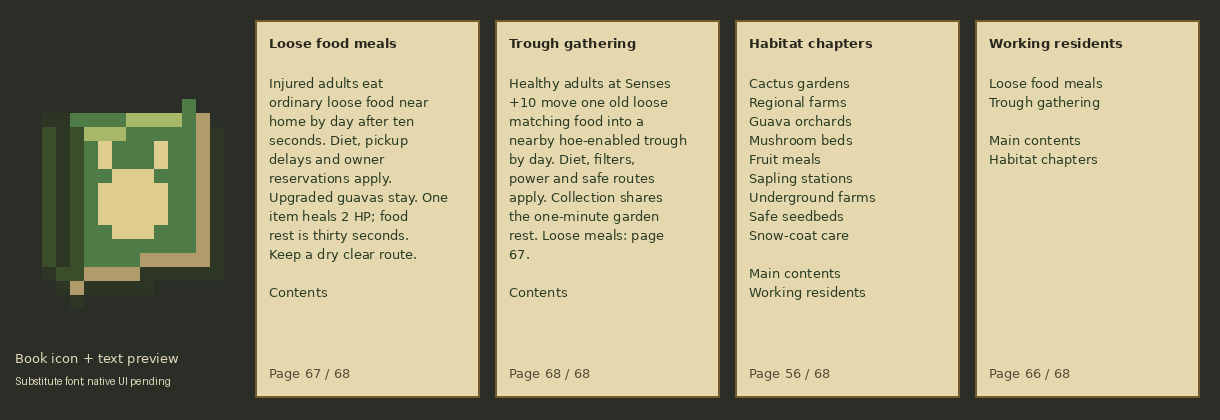
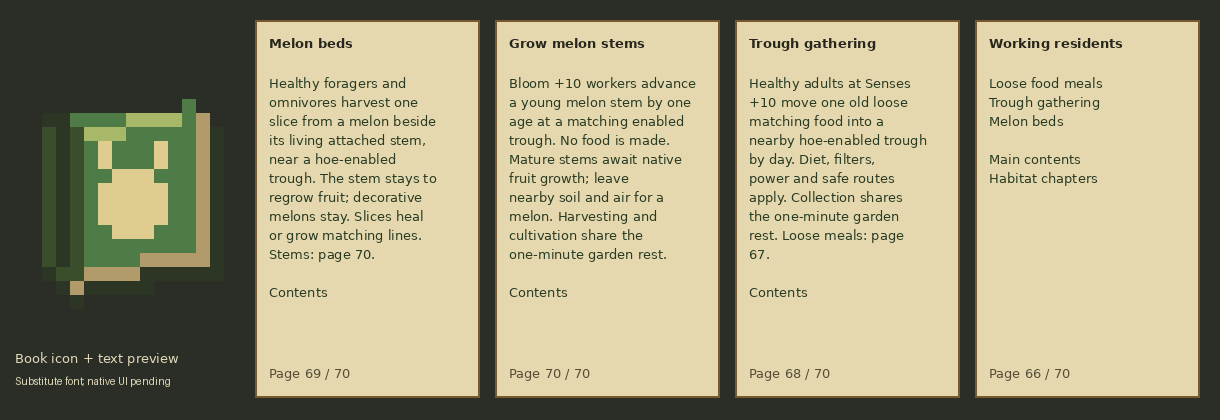
Add renewable melon harvesting and stem cultivation

diff --git a/tools/gametest/java/com/bunnidogs/mod/entity/MelonGardeningGameTest.java b/tools/gametest/java/com/bunnidogs/mod/entity/MelonGardeningGameTest.java
@@ -1,0 +1,116 @@
+package com.bunnidogs.mod.entity;
+
+import java.util.function.Consumer;
+import com.bunnidogs.mod.block.FeedingTroughBlock;
+import com.bunnidogs.mod.block.FeedingTroughBlockEntity;
+import com.bunnidogs.mod.genetics.Gardening;
+import com.bunnidogs.mod.genetics.Gene;
+import com.bunnidogs.mod.genetics.Genome;
+import com.bunnidogs.mod.genetics.Stats;
+import com.bunnidogs.mod.registry.ModBlocks;
+import com.bunnidogs.mod.registry.ModEntities;
+import net.minecraft.core.BlockPos;
+import net.minecraft.core.Direction;
+import net.minecraft.gametest.framework.GameTestHelper;
+import net.minecraft.util.ProblemReporter;
+import net.minecraft.world.InteractionHand;
+import net.minecraft.world.entity.item.ItemEntity;
+import net.minecraft.world.item.ItemStack;
+import net.minecraft.world.item.Items;
+import net.minecraft.world.level.GameType;
+import net.minecraft.world.level.block.Blocks;
+import net.minecraft.world.level.block.HorizontalDirectionalBlock;
+import net.minecraft.world.level.block.StemBlock;
+import net.minecraft.world.level.gamerules.GameRules;
+import net.minecraft.world.level.storage.TagValueInput;
+import net.minecraft.world.level.storage.TagValueOutput;
+import net.minecraft.world.phys.AABB;
+import net.minecraft.world.phys.Vec3;
+import net.neoforged.neoforge.common.NeoForge;
+import net.neoforged.neoforge.event.entity.living.LivingDestroyBlockEvent;
+
+/** Renewable melon fruit, decorative-block conservation and native stem reset/growth. */
+public final class MelonGardeningGameTest {
+    private MelonGardeningGameTest() {}
+    private static void ready(Bunnidog dog) {
+        var level = dog.level(); var output = TagValueOutput.createWithContext(ProblemReporter.DISCARDING,level.registryAccess());
+        dog.saveWithoutId(output); var saved = output.buildResult(); saved.remove("GardenWait");
+        dog.load(TagValueInput.create(ProblemReporter.DISCARDING,level.registryAccess(),saved));
+    }
+    private static void work(GameTestHelper h, Bunnidog dog, GardenGoal goal) {
+        goal.start(); dog.setPos(Vec3.atBottomCenterOf(h.absolutePos(new BlockPos(4,1,4))));
+        for (int i = 0; i < Gardening.WORK_TICKS; i++) goal.tick(); goal.stop();
+    }
+    public static void run(GameTestHelper h) {
+        var level = h.getLevel();
+        for (int x = 0; x < 8; x++) for (int z = 0; z < 8; z++) {
+            h.setBlock(x,0,z,Blocks.STONE);
+            for (int y = 1; y <= 5; y++) h.setBlock(x,y,z,Blocks.AIR);
+        }
+        h.setBlock(1,1,1,ModBlocks.NEST.get());
+        h.setBlock(new BlockPos(3,1,4),ModBlocks.FEEDING_TROUGH.get().defaultBlockState().setValue(FeedingTroughBlock.TENDING,true));
+        var fruit = h.absolutePos(new BlockPos(5,1,4)); var stem = fruit.north();
+        level.setBlock(stem.below(),Blocks.FARMLAND.defaultBlockState(),3);
+        level.setBlock(fruit,Blocks.MELON.defaultBlockState(),3);
+        var attached = Blocks.ATTACHED_MELON_STEM.defaultBlockState().setValue(HorizontalDirectionalBlock.FACING,Direction.SOUTH);
+        var trough = (FeedingTroughBlockEntity)level.getBlockEntity(h.absolutePos(new BlockPos(3,1,4)));
+        var dog = h.spawnWithNoFreeWill(ModEntities.BUNNIDOG.get(),3.5F,1,3.5F);
+        int forager = Gene.DIET.alleleNamed("forager").id();
+        var genome = Genome.DEFAULT.with(Gene.DIET,0,forager).with(Gene.DIET,1,forager);
+        dog.setAge(0); dog.setGenome(genome); dog.setStats(Stats.ZERO); dog.setHealth(dog.getMaxHealth());
+        h.runAfterDelay(2,() -> {
+            var clock = level.dimensionType().defaultClock().orElseThrow(); long time = level.clockManager().getTotalTicks(clock);
+            boolean griefing = level.getGameRules().get(GameRules.MOB_GRIEFING);
+            try {
+                level.clockManager().setTotalTicks(clock,1000); level.getGameRules().set(GameRules.MOB_GRIEFING,true,level.getServer());
+                h.assertTrue(dog.moveHomeTo(level,h.absolutePos(new BlockPos(1,1,1))) == NestHome.MoveResult.MOVED,"Melon work needs a real claimed Nest");
+                h.assertTrue(!new GardenGoal(dog).canUse(),"Decorative melons without an attached stem must remain intact");
+                level.setBlock(stem,attached.setValue(HorizontalDirectionalBlock.FACING,Direction.NORTH),3);
+                h.assertTrue(!new GardenGoal(dog).canUse(),"An attached stem facing away must not authorize this melon");
+                level.setBlock(stem,attached,3);
+                dog.setGenome(Genome.DEFAULT); h.assertTrue(!new GardenGoal(dog).canUse(),"Plain diets cannot harvest melon slices"); dog.setGenome(genome);
+                trough.setFilter(new ItemStack(Items.POTATO)); h.assertTrue(!new GardenGoal(dog).canUse(),"Melon produce obeys exact trough filters");
+                trough.clearFilter(); trough.setFilter(new ItemStack(Items.MELON_SLICE));
+                var interrupted = new GardenGoal(dog); h.assertTrue(interrupted.canUse(),"A living linked melon must form a native garden job");
+                Consumer<LivingDestroyBlockEvent> loseStem = event -> {
+                    if (event.getEntity() == dog && event.getPos().equals(fruit))
+                        level.setBlock(stem,Blocks.MELON_STEM.defaultBlockState().setValue(StemBlock.AGE,7),3);
+                };
+                NeoForge.EVENT_BUS.addListener(loseStem);
+                try { work(h,dog,interrupted); } finally { NeoForge.EVENT_BUS.unregister(loseStem); }
+                h.assertTrue(level.getBlockState(fruit).is(Blocks.MELON) && trough.food().isEmpty() && dog.gardeningWait() == 0,
+                        "Losing the linked stem in a protection callback must cancel without food or rest");
+                level.setBlock(stem,attached,3);
+                var harvest = new GardenGoal(dog); h.assertTrue(harvest.canUse(),"A restored stem must permit a new job"); work(h,dog,harvest);
+                h.assertTrue(level.getBlockState(fruit).isAir() && level.getBlockState(stem).is(Blocks.MELON_STEM)
+                        && level.getBlockState(stem).getValue(StemBlock.AGE) == 7 && trough.food().is(Items.MELON_SLICE)
+                        && trough.food().getCount() == 1 && dog.gardeningWait() == Gardening.REST_TICKS,
+                        "One fruit must yield one slice and native updates must restore its mature growing stem");
+                h.assertTrue(level.getEntitiesOfClass(ItemEntity.class,new AABB(fruit).inflate(3),item -> item.getItem().is(Items.MELON_SLICE)).isEmpty(),
+                        "Trough harvesting must not duplicate loose slices");
+                ready(dog); trough.takeAll();
+                h.assertTrue(!new GardenGoal(dog).canUse(),"A mature bare stem must await native fruit growth rather than be harvested");
+                level.setBlock(stem,Blocks.MELON_STEM.defaultBlockState().setValue(StemBlock.AGE,2),3);
+                dog.setStats(Stats.of(0,0,0,0,9)); h.assertTrue(!new GardenGoal(dog).canUse(),"Bloom +9 must leave young stems alone");
+                dog.setStats(Stats.of(0,0,0,0,10));
+                var grow = new GardenGoal(dog); h.assertTrue(grow.canUse(),"Bloom +10 may tend a matching young melon stem"); work(h,dog,grow);
+                h.assertTrue(level.getBlockState(stem).getValue(StemBlock.AGE) == 3 && level.getBlockState(fruit).isAir()
+                        && trough.food().isEmpty() && dog.gardeningWait() == Gardening.REST_TICKS,
+                        "Cultivation must advance exactly one stage, produce no food and share gardening rest");
+                ready(dog); level.setBlock(stem,Blocks.MELON_STEM.defaultBlockState().setValue(StemBlock.AGE,7),3);
+                h.assertTrue(!new GardenGoal(dog).canUse(),"Bloom must not wrap mature stems or force another fruit");
+                var player = h.makeMockPlayer(GameType.SURVIVAL);
+                var slices = new ItemStack(Items.MELON_SLICE,2); player.setItemInHand(InteractionHand.MAIN_HAND,slices);
+                dog.setHealth(dog.getMaxHealth()-4); dog.setGenome(Genome.DEFAULT); float hurt = dog.getHealth();
+                player.interactOn(dog,InteractionHand.MAIN_HAND,Vec3.ZERO);
+                h.assertTrue(dog.getHealth() == hurt && slices.getCount() == 2,"Plain lines must refuse hand-fed melon");
+                dog.setGenome(genome); player.interactOn(dog,InteractionHand.MAIN_HAND,Vec3.ZERO);
+                h.assertTrue(dog.getHealth() == hurt+2 && slices.getCount() == 1 && !Bunnidog.isBunnidogFood(slices),
+                        "Forager slices heal for one real item while remaining outside breeding food");
+                dog.setAge(-2400); player.interactOn(dog,InteractionHand.MAIN_HAND,Vec3.ZERO);
+                h.assertTrue(dog.getAge() > -2400 && slices.isEmpty(),"A compatible pup must grow using the final real slice");
+                h.succeed();
+            } finally { level.clockManager().setTotalTicks(clock,time); level.getGameRules().set(GameRules.MOB_GRIEFING,griefing,level.getServer()); }
+        });
+    }
+}

diff --git a/src/main/java/com/bunnidogs/mod/entity/GardenGoal.java b/src/main/java/com/bunnidogs/mod/entity/GardenGoal.java
@@ -23,7 +23,9 @@ import net.minecraft.world.level.block.Blocks;
 import net.minecraft.world.level.block.CaveVines;
 import net.minecraft.world.level.block.CropBlock;
 import net.minecraft.world.level.block.ComposterBlock;
+import net.minecraft.world.level.block.HorizontalDirectionalBlock;
 import net.minecraft.world.level.block.NetherWartBlock;
+import net.minecraft.world.level.block.StemBlock;
 import net.minecraft.world.level.block.SweetBerryBushBlock;
 import net.minecraft.world.level.block.state.BlockState;
 import net.minecraft.world.level.pathfinder.Path;
@@ -71,6 +73,18 @@ final class GardenGoal extends Goal {
     private static boolean smallMushroom(BlockState state) {
         return state.is(Blocks.RED_MUSHROOM) || state.is(Blocks.BROWN_MUSHROOM);
     }
+    /** A living attached stem distinguishes renewable fruit from decorative melon blocks. */
+    private boolean linkedMelon(ServerLevel level, BlockPos fruit) {
+        for (Direction direction : Direction.Plane.HORIZONTAL) {
+            BlockPos pos = fruit.relative(direction);
+            if (!level.hasChunkAt(pos) || !this.dog.foodWithinHome(pos)) continue;
+            var stem = level.getBlockState(pos);
+            if (stem.is(Blocks.ATTACHED_MELON_STEM)
+                    && stem.getValue(HorizontalDirectionalBlock.FACING) == direction.getOpposite()
+                    && stem.canSurvive(level,pos)) return true;
+        }
+        return false;
+    }
     /** Keep another living mushroom of this exact color in the loaded home patch. */
     private boolean thinnableMushroom(ServerLevel level, BlockPos pos) {
         var state = level.getBlockState(pos);
@@ -84,6 +98,10 @@ final class GardenGoal extends Goal {
         return false;
     }
     private Work work(ServerLevel level, BlockPos pos, BlockState state, boolean cultivate, ItemStack stock) {
+        if (state.is(Blocks.MELON)) return linkedMelon(level,pos)
+                ? new Work(new ItemStack(Items.MELON_SLICE),Blocks.AIR.defaultBlockState(),Task.HARVEST) : null;
+        if (state.is(Blocks.MELON_STEM)) return cultivate && state.getValue(StemBlock.AGE) < StemBlock.MAX_AGE && state.canSurvive(level,pos)
+                ? new Work(new ItemStack(Items.MELON_SLICE),state.cycle(StemBlock.AGE),Task.CULTIVATE) : null;
         if (state.is(Blocks.CACTUS)) return prunableCactus(level,pos)
                 ? new Work(new ItemStack(Items.CACTUS),Blocks.AIR.defaultBlockState(),Task.HARVEST) : null;
         if (smallMushroom(state)) return thinnableMushroom(level,pos)
@@ -153,6 +171,7 @@ final class GardenGoal extends Goal {
                 && this.dog.canEat(this.produce)
                 && (this.task == Task.HARVEST || Gardening.cultivates(this.dog.stats()))
                 && this.dog.level().getBlockState(this.crop).equals(this.mature)
+                && (!this.mature.is(Blocks.MELON) || linkedMelon((ServerLevel)this.dog.level(),this.crop))
                 && (!this.mature.is(Blocks.CACTUS) || prunableCactus((ServerLevel)this.dog.level(),this.crop))
                 && (!smallMushroom(this.mature) || thinnableMushroom((ServerLevel)this.dog.level(),this.crop))
                 && stock != null && (this.task == Task.COMPOST

diff --git a/art/gen_guide.py b/art/gen_guide.py
@@ -68,8 +68,10 @@ PAGES = {
     65: ('Snow-coat care', 'Brush healthy adult snow coats at Bloom +10 in a climate cold enough for snow to gather one snowball. Hidden snow gives none. Whiskers and Starlit Dust can combine. Hand and dispenser brushes share ten-minute rest. Shears gather wool separately.'),
     67: ('Loose food meals', 'Injured adults eat ordinary loose food near home by day after ten seconds. Diet, pickup delays and owner reservations apply. Upgraded guavas stay. One item heals 2 HP; food rest is thirty seconds. Keep a dry clear route.'),
     68: ('Trough gathering', 'Healthy adults at Senses +10 move one old loose matching food into a nearby hoe-enabled trough by day. Diet, filters, power and safe routes apply. Collection shares the one-minute garden rest. Loose meals: page 67.'),
+    69: ('Melon beds', 'Healthy foragers and omnivores harvest one slice from a melon beside its living attached stem, near a hoe-enabled trough. The stem stays to regrow fruit; decorative melons stay. Slices heal or grow matching lines. Stems: page 70.'),
+    70: ('Grow melon stems', 'Bloom +10 workers advance a young melon stem by one age at a matching enabled trough. No food is made. Mature stems await native fruit growth; leave nearby soil and air for a melon. Harvesting and cultivation share the one-minute garden rest.'),
 }
-PAGE_COUNT = 68
+PAGE_COUNT = 70
 MAIN_INDEX = {2:'Warrens & scouts',4:'Breeding & seeds',8:'Homes & food',11:'Care & traits',15:'Lab & splicing',
               17:'Registry & shows',19:'Material drops',20:'Apex of the Line'}
 MORE_INDEX = {24:'Guava juice',25:'Gardens & stores',27:'Boss forecast',28:'Living harvests',29:'Terrain & fishing',
@@ -77,7 +79,7 @@ MORE_INDEX = {24:'Guava juice',25:'Gardens & stores',27:'Boss forecast',28:'Livi
 NEW_INDEX = {41:'Nursery & compost',44:'Treat a litter',45:'Nest guards',46:'Warren maps',47:'Mineral scouts',49:'Pause trough work',51:'Find a tagged animal',52:'Bell roll call',53:'Recovery rest',54:'Plan a litter'}
 
 HABITAT_INDEX = {57:'Cactus gardens',58:'Regional farms',59:'Guava orchards',60:'Mushroom beds',61:'Fruit meals',62:'Sapling stations',63:'Underground farms',64:'Safe seedbeds',65:'Snow-coat care'}
-WORK_INDEX = {67:'Loose food meals',68:'Trough gathering'}
+WORK_INDEX = {67:'Loose food meals',68:'Trough gathering',69:'Melon beds'}
 
 def pantry_guide_pool():
     return {'rolls':1,'conditions':[{'condition':'minecraft:random_chance','chance':.35}],
@@ -124,7 +126,7 @@ def main():
         bold = ImageFont.truetype('DejaVuSans-Bold.ttf',13)
     except OSError:
         font = bold = ImageFont.load_default()
-    for x,page in [(255,67),(495,68),(735,56),(975,66)]:
+    for x,page in [(255,69),(495,70),(735,68),(975,66)]:
         d.rectangle((x,20,x+224,397),fill=(230,216,174),outline=(117,90,48),width=2)
         title = 'Bunnidogs Guide' if page == 1 else 'More chapters' if page == 40 else 'New chapters' if page == 50 else 'Habitat chapters' if page == 56 else 'Working residents' if page == 66 else PAGES[page][0]
         d.text((x+14,35),title,font=bold,fill=(40,39,30))

diff --git a/tools/gametest/java/com/bunnidogs/mod/entity/GuavaGameTest.java b/tools/gametest/java/com/bunnidogs/mod/entity/GuavaGameTest.java
@@ -55,7 +55,7 @@ public final class GuavaGameTest extends GameTestInstance {
     @SubscribeEvent
     public static void registerTests(RegisterGameTestsEvent event) {
         var environment = event.registerEnvironment(id("guava_integration"), new TestEnvironmentDefinition.AllOf());
-        for (String name : new String[]{"boats", "signs", "transport", "rehoming", "wayfinding", "sampling", "adaptations", "fleece", "splicing", "registry", "table_planning", "table_automation", "show", "grooming", "cold_care", "settlement", "apex", "fixtures", "regional_farms", "orchard", "sapling_station", "gardening", "cactus_gardening", "mushroom_gardening", "fruit_foraging", "loose_food", "food_gathering", "pantry", "fishing", "refuge", "guarding", "scouting", "resident_finder", "storm_shelter", "recovery_rest", "trough_automation", "bell_calls", "trough_filters", "care_dispensers", "basket", "cultivation", "nest_markers", "night_meals", "nursery", "seed_recovery", "cradle_storage", "cradle_hatching", "cradle_spawn_refusal", "crop_harvest", "composting", "nursery_treatment"}) {
+        for (String name : new String[]{"boats", "signs", "transport", "rehoming", "wayfinding", "sampling", "adaptations", "fleece", "splicing", "registry", "table_planning", "table_automation", "show", "grooming", "cold_care", "settlement", "apex", "fixtures", "regional_farms", "orchard", "sapling_station", "gardening", "cactus_gardening", "mushroom_gardening", "melon_gardening", "fruit_foraging", "loose_food", "food_gathering", "pantry", "fishing", "refuge", "guarding", "scouting", "resident_finder", "storm_shelter", "recovery_rest", "trough_automation", "bell_calls", "trough_filters", "care_dispensers", "basket", "cultivation", "nest_markers", "night_meals", "nursery", "seed_recovery", "cradle_storage", "cradle_hatching", "cradle_spawn_refusal", "crop_harvest", "composting", "nursery_treatment"}) {
             event.registerTest(id(name), new GuavaGameTest(name, new TestData<>(environment, id("empty"), 100, 0, true)));
         }
     }
@@ -83,6 +83,7 @@ public final class GuavaGameTest extends GameTestInstance {
             case "gardening" -> { GardeningGameTest.run(h); return; }
             case "cactus_gardening" -> { CactusGardeningGameTest.run(h); return; }
             case "mushroom_gardening" -> { MushroomGardeningGameTest.run(h); return; }
+            case "melon_gardening" -> { MelonGardeningGameTest.run(h); return; }
             case "fruit_foraging" -> { FruitForagingGameTest.run(h); return; }
             case "loose_food" -> { LooseFoodGameTest.run(h); return; }
             case "food_gathering" -> { FoodGatheringGameTest.run(h); return; }

diff --git a/src/main/java/com/bunnidogs/mod/item/FieldGuideItem.java b/src/main/java/com/bunnidogs/mod/item/FieldGuideItem.java
@@ -12,7 +12,7 @@ import net.minecraft.world.item.component.WrittenBookContent;
 
 /** Native book UI/packets, translated pages and local page links; no custom screen or payload. */
 public final class FieldGuideItem extends WrittenBookItem {
-    public static final int PAGE_COUNT = 68;
+    public static final int PAGE_COUNT = 70;
     private static final int MORE_CONTENTS = 40;
     private static final int NEW_CONTENTS = 50;
     private static final int HABITAT_CONTENTS = 56;
@@ -27,7 +27,7 @@ public final class FieldGuideItem extends WrittenBookItem {
                 .append("\n").append(link("guide.bunnidogs.habitat_contents",HABITAT_CONTENTS))));
         for (int page = 2; page <= PAGE_COUNT; page++) {
             if (page == WORK_CONTENTS) {
-                pages.add(Filterable.passThrough(contents("guide.bunnidogs.work_contents",new int[]{67,68},
+                pages.add(Filterable.passThrough(contents("guide.bunnidogs.work_contents",new int[]{67,68,69},
                         "guide.bunnidogs.main_contents",1).append("\n").append(link("guide.bunnidogs.habitat_contents",HABITAT_CONTENTS))));
                 continue;
             }

diff --git a/src/main/java/com/bunnidogs/mod/genetics/Diet.java b/src/main/java/com/bunnidogs/mod/genetics/Diet.java
@@ -6,7 +6,7 @@ import java.util.List;
 public enum Diet {
     PLAIN("plain", "Guavas only.", List.of()),
     GRAZER("grazer", "Hay, wheat and grass.", List.of("grazer")),
-    FORAGER("forager", "Carrots, potatoes, beetroot, apples and berries.", List.of("forager")),
+    FORAGER("forager", "Carrots, potatoes, beetroot, apples, melon slices and berries.", List.of("forager")),
     HUNTER("hunter", "Raw meat; wounded adults hunt small prey near their Nest.", List.of("hunter")),
     OMNIVORE("omnivore", "Grazer, forager and hunter foods; can graze and hunt.", List.of("grazer", "forager", "hunter")),
     FISHER("fisher", "Raw fish; wounded adults hunt reachable fish near their Nest.", List.of("fisher")),

diff --git a/docs/SETTLEMENT_LIFE.md b/docs/SETTLEMENT_LIFE.md
@@ -711,3 +711,42 @@ and full-destination rollback, callback-added power, one-item transfer/signals,
 shared garden recovery and actual stock-notification removal conserving food.
 Calipers names the Senses gathering bonus. Guide/navigation preview inspected;
 client worker behavior remains gameplay review.
+
+## L25: renewable melon beds
+
+Forager and omnivore Diet tags now include ordinary melon slices for healing,
+pup growth, trough meals and loose-food handling; slices remain outside guava
+breeding food. Healthy residents can harvest a vanilla melon near a hoe-enabled
+trough only if a living attached melon stem points to that fruit. Both stem
+and fruit must be loaded and inside the claimed home bounds. Decorative melons,
+wrong-facing/detached stems and unsupported stems do not authorize a job.
+
+One protected three-second job removes the fruit into exactly one slice of
+stock, preserving the stem, soil and surrounding blocks. Native neighbor
+updates turn the attached stem back into age-seven melon stem, so native growth
+supplies the next fruit. This deliberately uses the existing modest one-item
+resident work yield rather than vanilla player-break slice rolls. There is no
+extra loose drop. Existing Diet, filter/components, capacity, redstone, daytime,
+health, griefing, native safe paths, sight/reach and one-minute GardenWait apply.
+Linkage rechecks after protection callbacks as well as during the visit.
+
+## L26: cultivate young melon stems
+
+Bloom +10 workers can advance an existing supported melon stem from ages 0–6
+by exactly one age at a compatible enabled trough. The future slice must suit
+the Diet, filter and available stock space. No item is produced, consumed or
+carried; the job shares ordinary garden recovery. Ripe harvesting remains the
+first work priority. Age-seven stems and attached stems cannot be harvested
+as plants, wrapped to zero or forced to place fruit. Native light, soil, space
+and random growth rules govern future fruit. Players plant seeds normally.
+
+L25/L26 evidence (2026-10-19): Java 25 build/all 53 native cases pass. The new
+native melon case claims a real Nest and complete safe path; it checks absent/
+wrong-facing linked stems, Diet/filter refusals, protection-callback stem loss
+without food/rest, exact one-slice harvest, real native age-seven stem reset,
+no duplicated loose produce, Bloom +9/+10, one-stage/no-food cultivation,
+shared rest and mature-stem refusal. Native hand feeding checks plain refusal,
+forager adult healing and pup growth with exactly one real slice per success,
+while slices remain outside breeding food. The 70-page guide preview is
+inspected; natural melon cycles and client worker behavior need gameplay review.
+No animal save, network, allele or settlement-plan format changes.

diff --git a/docs/API_NOTES.md b/docs/API_NOTES.md
@@ -28,6 +28,7 @@ Status words: **COMPILED** = the user's compile accepted it (names and types are
 ### Lookup table (need -> what works in this project -> status -> exact place)
 | Need | What works | Status | Where it was verified |
 |---|---|---|---|
+| Melon beds L25/L26 | AttachedStemBlock uses HorizontalDirectionalBlock.FACING; native neighbor updates restore MELON_STEM AGE 7 when its fruit is removed. Require an exact living attached melon stem pointing to the fruit, rechecked after protection callbacks. Advance StemBlock.AGE only below MAX_AGE; do not call native bone meal or harvest a mature stem. | Resolved 26.2 source + actual native linked/decorative/protection/reset/cultivation/hand-feeding case | GardenGoal, MelonGardeningGameTest |
 | Loose food D7/L24 | ItemEntity.getAge/hasPickUpDelay/getTarget gate old unreserved food; saved Age is a short. Mob pickups use EventHooks.canEntityGrief and EntityMobGriefingEvent; ItemEntityPickupEvent is player-only. ItemStackResourceHandler can journal an entity stack with trough.automation() in one Transaction. Commit before empty-entity discard; thrown-item criteria receive the committed unit snapshot. | Actual Java 25 build/native rollback, callback reservation/power and stock-notification removal checks | LooseFood, LooseFoodGoal, native loose_food/food_gathering cases |
 | Cold care C10 / native shearing | `Biome.coldEnoughToSnow(BlockPos,int seaLevel)` uses native temperature/altitude. GameTestHelper.setBiome(Biomes.SNOWY_PLAINS/PLAINS) changes real fixture biomes. Existing Bunnidog IShearable already integrates with ShearsDispenseItemBehavior, including fleece rest, tool wear and native fallback; do not register a duplicate shears behavior. | Resolved 26.2 source + native climate/brush/shears-pulse case | `entity/BunnidogCare.java`, `ColdCareGameTest.java` |
 | Plant soil tags in 26.2 (O5/N8) | `DIRT` contains only dirt/coarse dirt/rooted dirt. Grass/podzol/mycelium moved to `GRASS_BLOCKS`; native `VegetationBlock` uses `SUPPORTS_VEGETATION` and first honors `soil.canSustainPlant(level,below,Direction.UP,plant)` TriState overrides. Use `DIRT` plus `GRASS_BLOCKS` for the legacy litter-crop fallback. | Resolved 26.2 native source/data; actual sapling/seed-soil recovery checks | `block/GuavaSaplingBlock.java`, `block/SeedCropBlock.java`, native station/recovery cases |

diff --git a/START_HERE.md b/START_HERE.md
@@ -22,6 +22,15 @@ checkpoints/compaction and reserve only the capacity needed to deliver safely.
 
 ## Latest gameplay work — 2026-10-19
 
+- **L25/L26, renewable melon beds:** foragers/omnivores harvest one slice
+  only beside a living attached melon stem, leaving decorative melons intact.
+  Native neighbor updates restore the mature stem. Bloom +10 advances young
+  stems by one age without food or forced fruit. Diet, exact filters, native
+  protection rechecks and shared work rest apply. Matching hand-fed slices
+  heal adults/grow pups without breeding. The guide reaches 70 pages with
+  forty chapter links. Java 25 build/all 53 native cases pass; new chapter/
+  Working-index preview inspected. See `docs/SETTLEMENT_LIFE.md` L25–L26.
+
 - **D7/L24/P6, loose-food use:** injured adults take one old ordinary loose
   food as a normal daytime meal. Healthy Senses +10 adults collect it beside
   an enabled trough with shared garden rest. Ten-second grace, native pickup
@@ -338,9 +347,17 @@ Add `checkBunnidogModel` for mesh/renderer/animation changes. GitHub Actions run
 Avoid the large GenomeCheck suite unless substantial pure genetics/layout work
 requires it; do not repeat passing checks without a relevant change or concern.
 
-The Java 25 build and all **fifty-two** native scenarios pass (fifty-one mod
+The Java 25 build and all **fifty-three** native scenarios pass (fifty-two mod
 cases plus native sanity). Latest coverage:
 
+- **L25/L26:** living/wrong-facing/decorative melon cases, Diet/filter refusals,
+  protection-callback stem loss, exact slice/native stem reset, no loose copy,
+  Bloom thresholds, one-stage/no-food growth, mature refusal and hand feeding.
+- **D7/L24:** grace/pickup reservations, upgraded-food refusal, safe paths,
+  callback reservation/power, exact components, shared recovery, native journal
+  abort/full-destination rollback and reentrant trough removal conserving food.
+- **C10:** actual warm/cold biomes, Bloom +9/+10, hidden snow, off-hand brush
+  cost/recovery, combined products and independent native dispenser shearing.
 - **N1:** real redstone pulses, malformed/blocked/wrong-soil/occupied planting,
   exact parental genomes/stats/quality/Mutagen and native crop saves, dust cost,
   ripe/empty/other-plant refusals, no ejection, real hand survival/creative use

diff --git a/docs/FIELD_GUIDE.md b/docs/FIELD_GUIDE.md
@@ -58,8 +58,8 @@ containers are not refilled and player inventories are not edited. See
 
 ## Presentation and saves
 
-Fifty-seven pages use the ordinary written-book screen. Four linked contents pages
-offer twenty-nine clickable chapter links. Each chapter links back to its index. Local page changes
+Seventy pages use the ordinary written-book screen. Five linked contents pages
+offer forty clickable chapter links. Each chapter links back to its index. Local page changes
 are the only click action. All text is translatable through en_us.json. The
 book stacks to one and appears beside the Calipers in Tools & Utilities.
 
@@ -76,9 +76,9 @@ resource-pack fonts may differ. The source preview uses a substitute font.
 
 ## Evidence
 
-The actual Java 25 build and current fifty-two native server cases pass,
-including loading the book/recipe/loot resources. The expanded 68-page
-meal/gathering/Habitat/Working preview is inspected with a substitute font; all
+The actual Java 25 build and current fifty-three native server cases pass,
+including loading the book/recipe/loot resources. The expanded 70-page
+melon/stem/gathering/Working preview is inspected with a substitute font; all
 three indices were also inspected for P4. Earlier
 pages were shortened using the conservative native text-area estimate.
 Native WrittenBookItem, ServerPlayer, ClientPacketListener and BookViewScreen
@@ -216,3 +216,11 @@ work rest. There are thirty-nine chapter links over 68 pages/five indices.
 The meal/gathering/Habitat/Working preview is inspected with a substitute font;
 Java 25 build and all 52 native cases pass. Native client book use remains
 separate gameplay review.
+
+L25/L26 appends **Melon beds**, page 69, and **Grow melon stems**, page 70.
+Working gains its third chapter, pointing to 69 with a textual reference to 70;
+both pages return to Working. The guide has 70 pages, five indices and forty
+chapter links. Living attached stems, preserved decorative blocks, Diet feeding,
+one-stage/no-food growth, native fruit regrowth and shared rest are explicit.
+The melon/stem/gathering/Working preview is inspected with a substitute font.
+Java 25 build/all 53 native cases pass; earlier destinations remain stable.

diff --git a/README.md b/README.md
@@ -4,7 +4,7 @@ A NeoForge mod for Minecraft 26.2: a baby-faced creature with rabbit ears and a
 dog's body, plus breeding, genetics, guavas, warrens, homes and pedigree tools.
 Requires JDK 25. Client and server must both use the updated mod (network 7). The checked-in Gradle wrapper selects the project Gradle version.
 
-Craft a vanilla book with any guava for the **68-page Field Guide**, with five
+Craft a vanilla book with any guava for the **70-page Field Guide**, with five
 linked contents pages covering its chapters. Sneak-use
 Calipers for care/work readiness, use a hoe on a Feeding Trough to enable
 resident gardening, and explore food stores for supplies suited to each lineage.
@@ -20,6 +20,7 @@ Litter crops retain their whole seed when farmland changes into dirt, grass, pod
 In cold climates, brush healthy snow coats at Bloom +10 for one snowball with shared grooming rest.
 Injured residents eat ordinary loose food after ten seconds; reserved items and upgraded guavas stay.
 Healthy Senses +10 workers gather loose food beside enabled troughs, sharing garden rest.
+Foragers harvest attached melons into one slice while preserving their stems; Bloom +10 tends young stems.
 Living glow/starborn lines yield renewable dust, while inherited terrain traits
 and resident shore fishing give more reasons to develop distinct breeds.
 Residents seek refuge from threats and shelter from thunderstorms.

diff --git a/docs/FEATURES.md b/docs/FEATURES.md
@@ -1,7 +1,7 @@
 # Bunnidogs: how to use each feature in game
 
 **Field Guide (P1):** combine a vanilla book with any guava. Use the book to
-open 68 pages from first warren to Apex. Five linked contents pages offer thirty-nine
+open 70 pages from first warren to Apex. Five linked contents pages offer forty
 chapter links; Habitat chapters collect regional gardens.
 It can also appear in unopened warren pantry barrels (35% chance). Native book
 pages, rather than a separate custom screen, explain the progression in-game.
@@ -551,3 +551,11 @@ sharing one-minute garden rest. Diet, pickup delays, owner reservations, exact
 filters, power and safe loaded paths apply. Upgraded guavas stay. Transfers
 preserve whole components and conserve food through native transaction aborts
 and trough-removal notifications. Calipers explains the gathering bonus.
+
+**Melon beds (L25/L26):** foragers and omnivores can eat melon slices for healing
+or pup growth; slices never trigger breeding. Healthy residents harvest one
+slice into a nearby hoe-enabled trough only if a living attached melon stem
+points to the fruit. Decorative melon blocks stay. The stem resets naturally
+and grows its next fruit normally. Bloom +10 advances young melon stems by
+one age, creating no food. Mature stems await native growth. Exact filters,
+power, safe routes, protection and the shared one-minute gardening rest apply.
